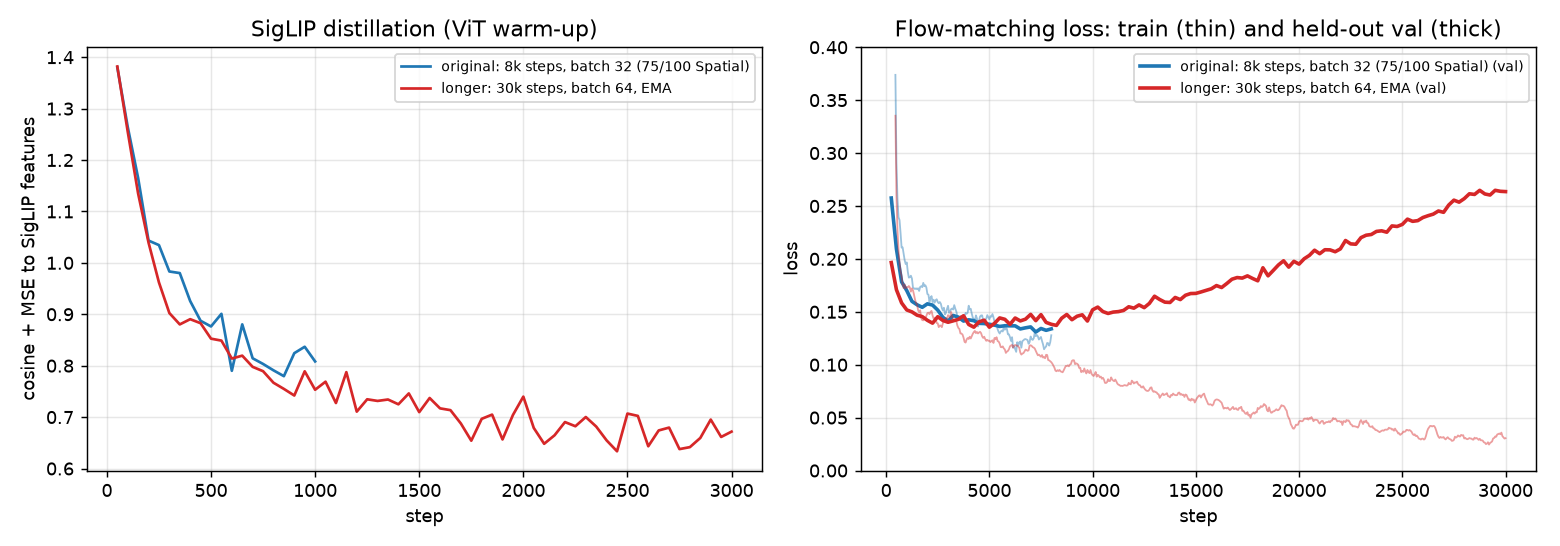
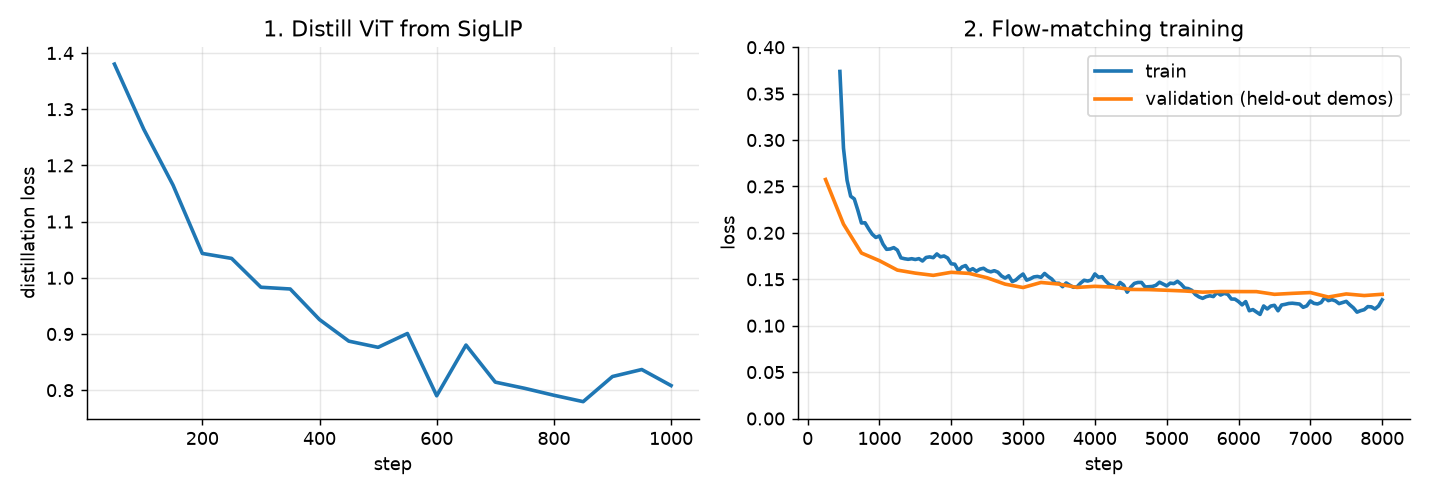
Simpler training-curve figure: the reported 8k-step run only

diff --git a/README.md b/README.md
@@ -8,8 +8,8 @@ readable, mostly single-file implementations:
 
 ![training curves](assets/training_curves.png)
 
-Left: the small ViT is first distilled from SigLIP. Right: flow-matching loss. The original 8k-step run is the model
-in the results below. Training 30k steps keeps lowering train loss while held-out loss rises after ~5k steps.
+Training the small model (the run behind the results below): the ViT is first distilled from SigLIP, then the
+whole model trains with flow matching for 8k steps, about 25 minutes on the laptop.
 
 Same LIBERO-Spatial episode, the 10M model trained here (left) and pi0.5 in 4-bit (right):
 
